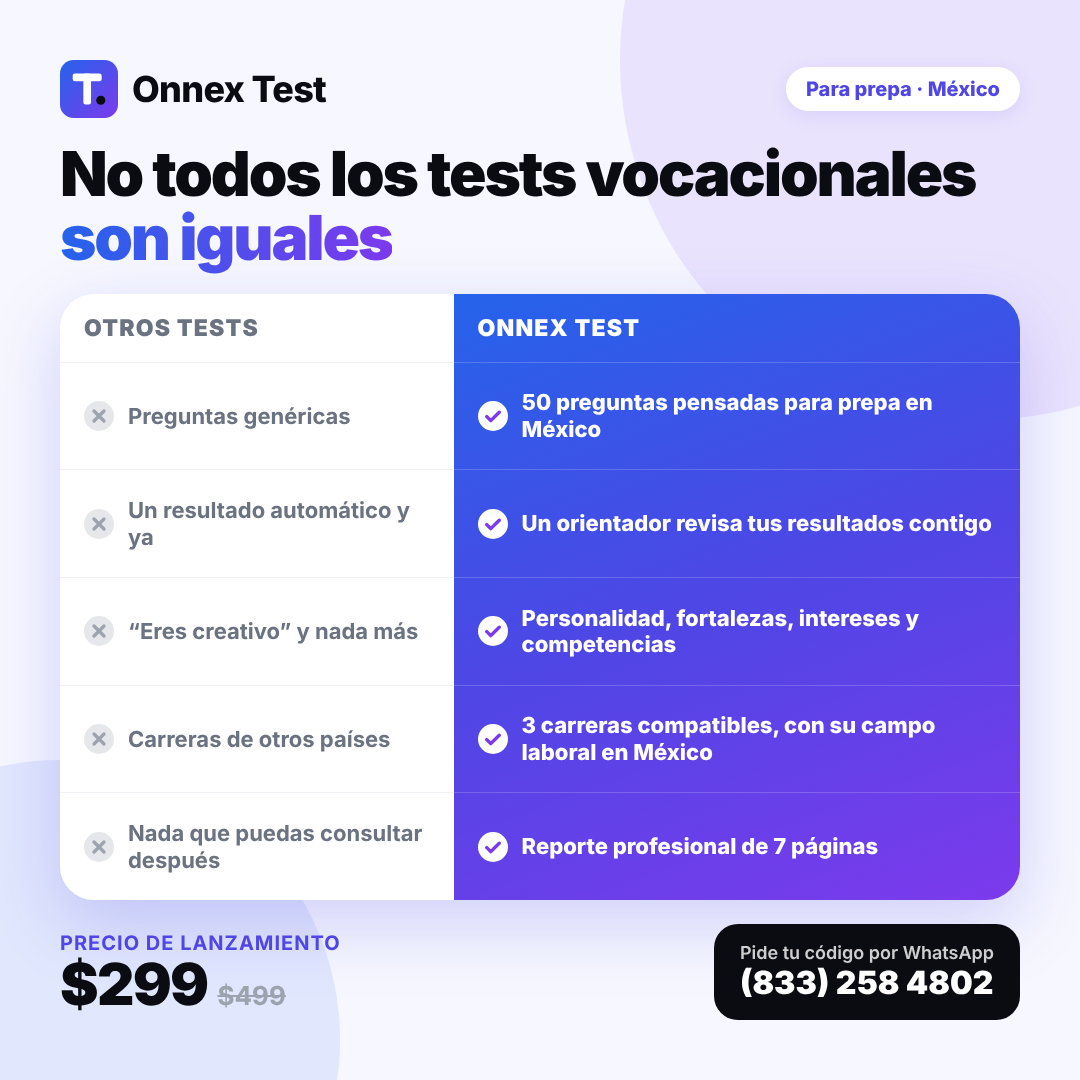
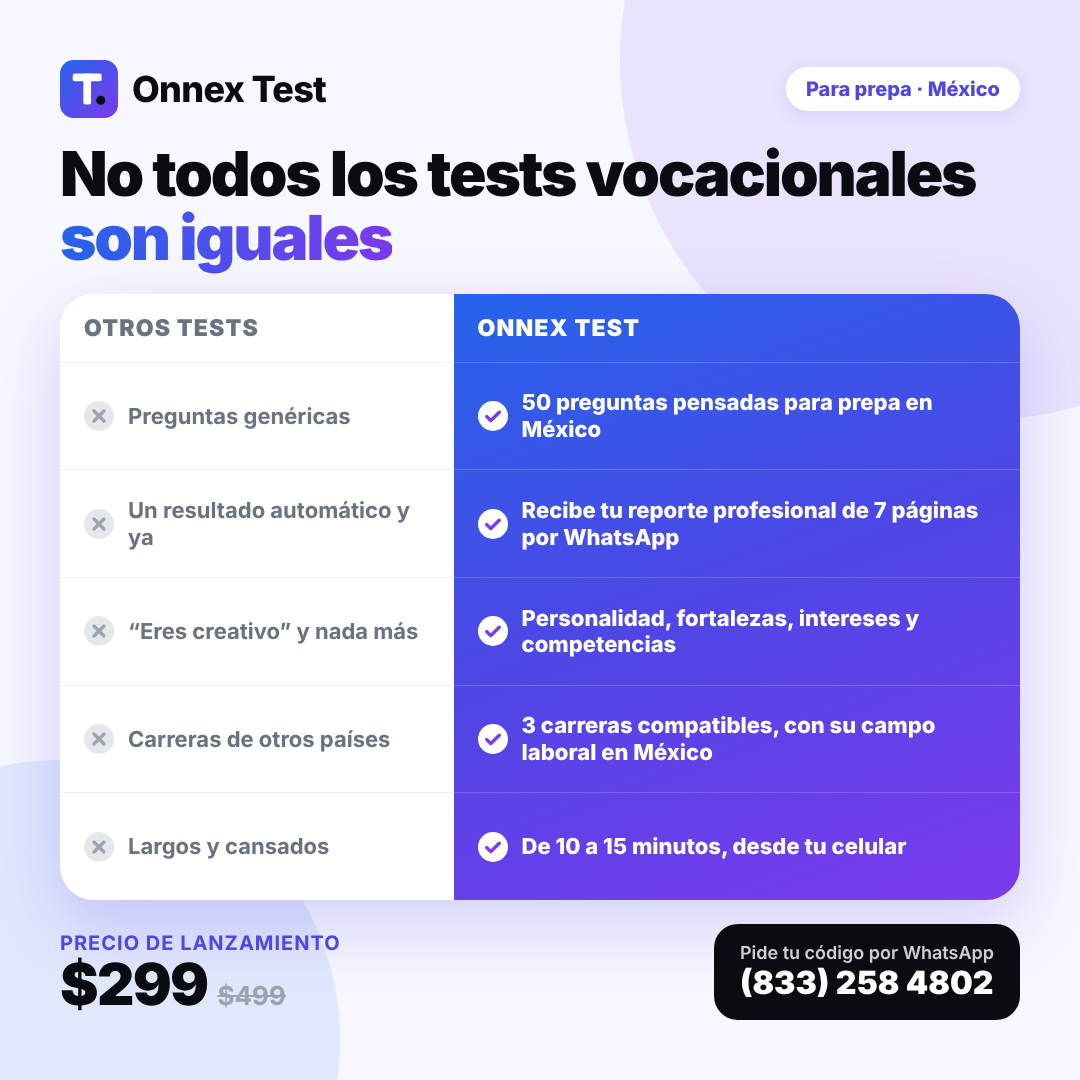
Artes: reporte por WhatsApp en lugar de orientador
Claude-Session: https://claude.ai/code/session_01XWD7x2csBx1fV87m5BhF1g

Changed region(s): [[0.4583, 0.4583, 0.9167, 0.5194], [0.4889, 0.7639, 0.8556, 0.7944], [0.1222, 0.7639, 0.3972, 0.825]]

diff --git a/marketing/comparativo.ts b/marketing/comparativo.ts
@@ -15,10 +15,10 @@ const FORMATS = [
 
 const ROWS: [string, string][] = [
   ["Preguntas genéricas", "50 preguntas pensadas para prepa en México"],
-  ["Un resultado automático y ya", "Un orientador revisa tus resultados contigo"],
+  ["Un resultado automático y ya", "Recibe tu reporte profesional de 7 páginas por WhatsApp"],
   ["“Eres creativo” y nada más", "Personalidad, fortalezas, intereses y competencias"],
   ["Carreras de otros países", "3 carreras compatibles, con su campo laboral en México"],
-  ["Nada que puedas consultar después", "Reporte profesional de 7 páginas"],
+  ["Largos y cansados", "De 10 a 15 minutos, desde tu celular"],
 ];
 
 function html(width: number, height: number, tall: boolean): string {
@@ -65,7 +65,6 @@ function html(width: number, height: number, tall: boolean): string {
     <div class="col them"><div class="head">Otros tests</div>${ROWS.map(([a]) => `<div class="cell">${x}<span>${a}</span></div>`).join("")}</div>
     <div class="col us"><div class="head">Onnex Test</div>${ROWS.map(([, b]) => `<div class="cell">${ok}<span>${b}</span></div>`).join("")}</div>
   </div>
-  ${tall ? `<p class="foot">Toma de 10 a 15 minutos y lo haces desde tu celular.</p>` : ""}
   <div class="bottom">
     <div class="price"><small>Precio de lanzamiento</small><div><b>$299</b><s>$499</s></div></div>
     <div class="cta"><small>Pide tu código por WhatsApp</small><span>${BRAND.contactPhone}</span></div>
